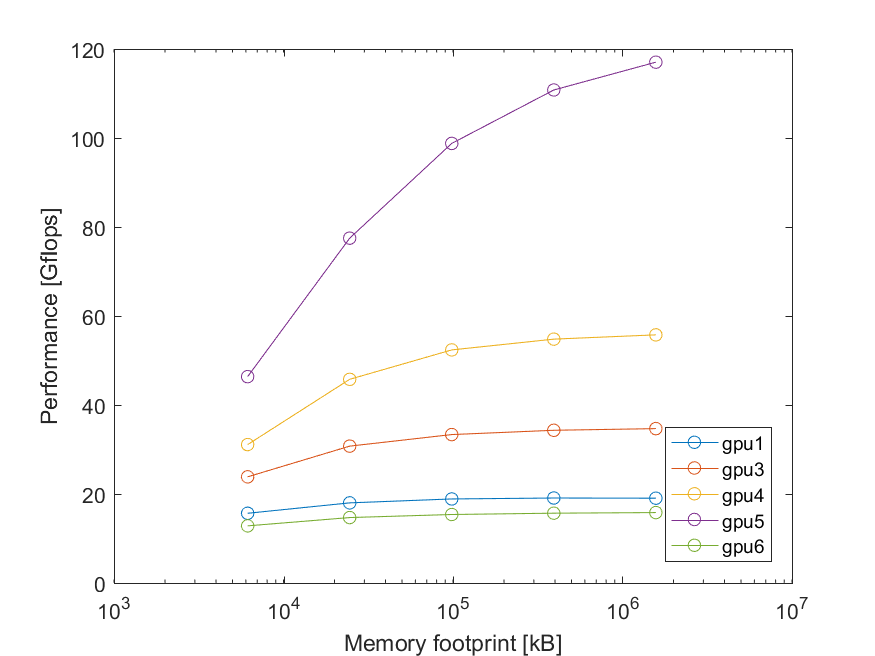
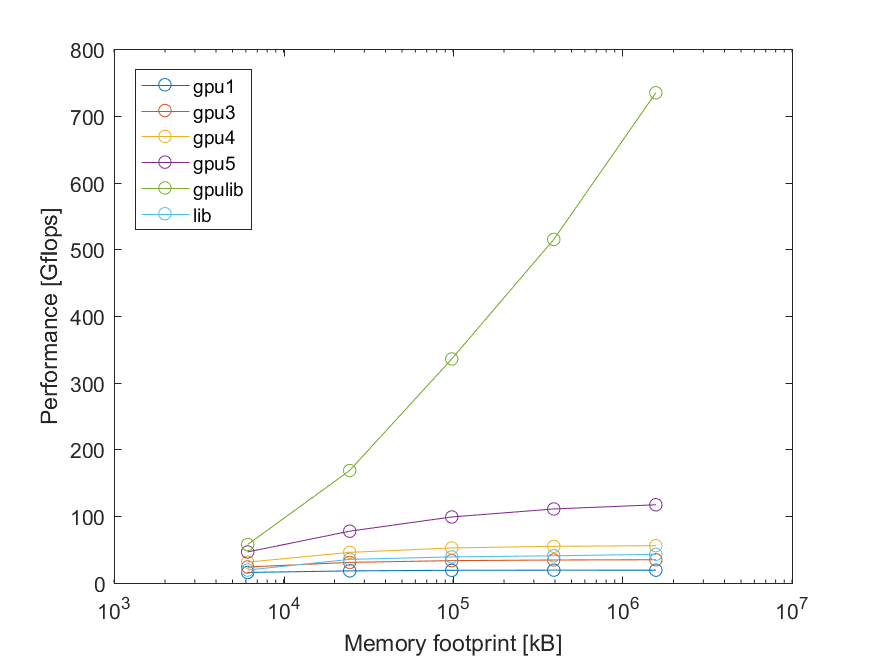
dks

diff --git a/assignment3/files/GPU5_blsize.m b/assignment3/files/GPU5_blsize.m
@@ -1,0 +1,69 @@
+clear; close all;
+data = importdata('gpu5-bs4.txt');
+
+A = [zeros(size(data.rowheaders)) data.data];
+B = unique(data.textdata);
+
+for i = 1:length(data.textdata)
+    A(i,1) = find(strcmp(B,data.textdata{i}));
+end
+
+I = false(length(A),length(B));
+for i = 1:length(B)
+    I(:,i) = A(:,1) == i;
+end
+
+data = importdata('gpu5-bs8.txt');
+
+C = [zeros(size(data.rowheaders)) data.data];
+D = unique(data.textdata);
+
+for i = 1:length(data.textdata)
+    C(i,1) = find(strcmp(D,data.textdata{i}));
+end
+
+I = false(length(C),length(D));
+for i = 1:length(D)
+    I(:,i) = C(:,1) == i;
+end
+
+data = importdata('gpu5.txt');
+
+E = [zeros(size(data.rowheaders)) data.data];
+F = unique(data.textdata);
+
+for i = 1:length(data.textdata)
+    E(i,1) = find(strcmp(F,data.textdata{i}));
+end
+
+I = false(length(E),length(F));
+for i = 1:length(F)
+    I(:,i) = C(:,1) == i;
+end
+
+data = importdata('gpu5-bs32.txt');
+
+G = [zeros(size(data.rowheaders)) data.data];
+H = unique(data.textdata);
+
+for i = 1:length(data.textdata)
+    G(i,1) = find(strcmp(H,data.textdata{i}));
+end
+
+I = false(length(G),length(H));
+for i = 1:length(H)
+    I(:,i) = C(:,1) == i;
+end
+A(1:5,3) = A(1:5,3)/1000;
+C(1:5,3) = C(1:5,3)/1000;
+E(1:5,3) = E(1:5,3)/1000;
+G(1:5,3) = G(1:5,3)/1000;
+semilogx(A(1:5,2), A(1:5,3),'-o');
+hold on
+semilogx(C(1:5,2),C(1:5,3),'-o');
+semilogx(E(1:5,2),E(1:5,3),'-o');
+semilogx(G(1:5,2),G(1:5,3),'-o');
+
+xlabel('Memory footprint [kB]'); ylabel('Performance [Gflops]');
+legend('BS 4','BS 8','BS 16','BS 32','Location','southeast');
+print('gpu5_blsizes','-dpng')

diff --git a/assignment3/matmatPlots.m b/assignment3/matmatPlots.m
@@ -17,7 +17,7 @@ A(:,3) = A(:,3)/1000;
 
 % memory footprint vs flops
 figure;
-semilogx(A(I(:,2),2),A(I(:,2),3),'-o',A(I(:,3),2),A(I(:,3),3),'-o',A(I(:,4),2),A(I(:,4),3),'-o',A(I(:,5),2),A(I(:,5),3),'-o',A(I(:,6),2),A(I(:,6),3),'-o');
+semilogx(A(I(:,2),2),A(I(:,2),3),'-o',A(I(:,3),2),A(I(:,3),3),'-o',A(I(:,4),2),A(I(:,4),3),'-o',A(I(:,5),2),A(I(:,5),3),'-o',A(I(:,7),2),A(I(:,7),3),'-o',A(I(:,8),2),A(I(:,8),3),'-o');
 xlabel('Memory footprint [kB]'); ylabel('Performance [Gflops]');
-legend(C{1}, C{3}, C{4}, C{5}, C{6},'Location','southeast');
+legend(C{1}, C{3}, C{4}, C{5},C{7},C{8},'Location','northwest');
 print('MatrixMemVsFlops.png','-dpng')
